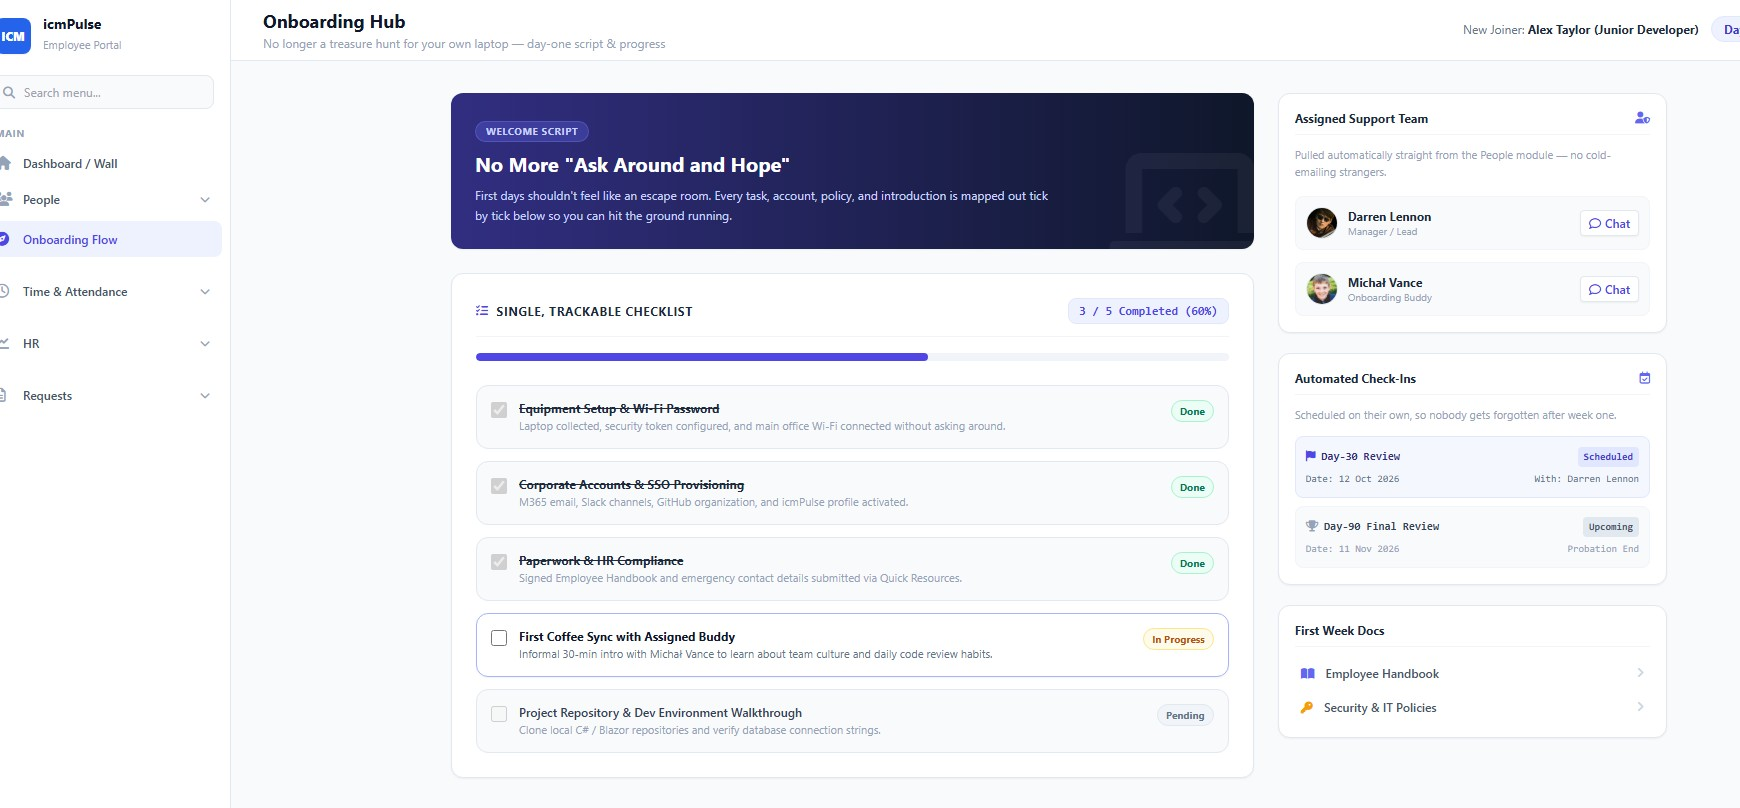
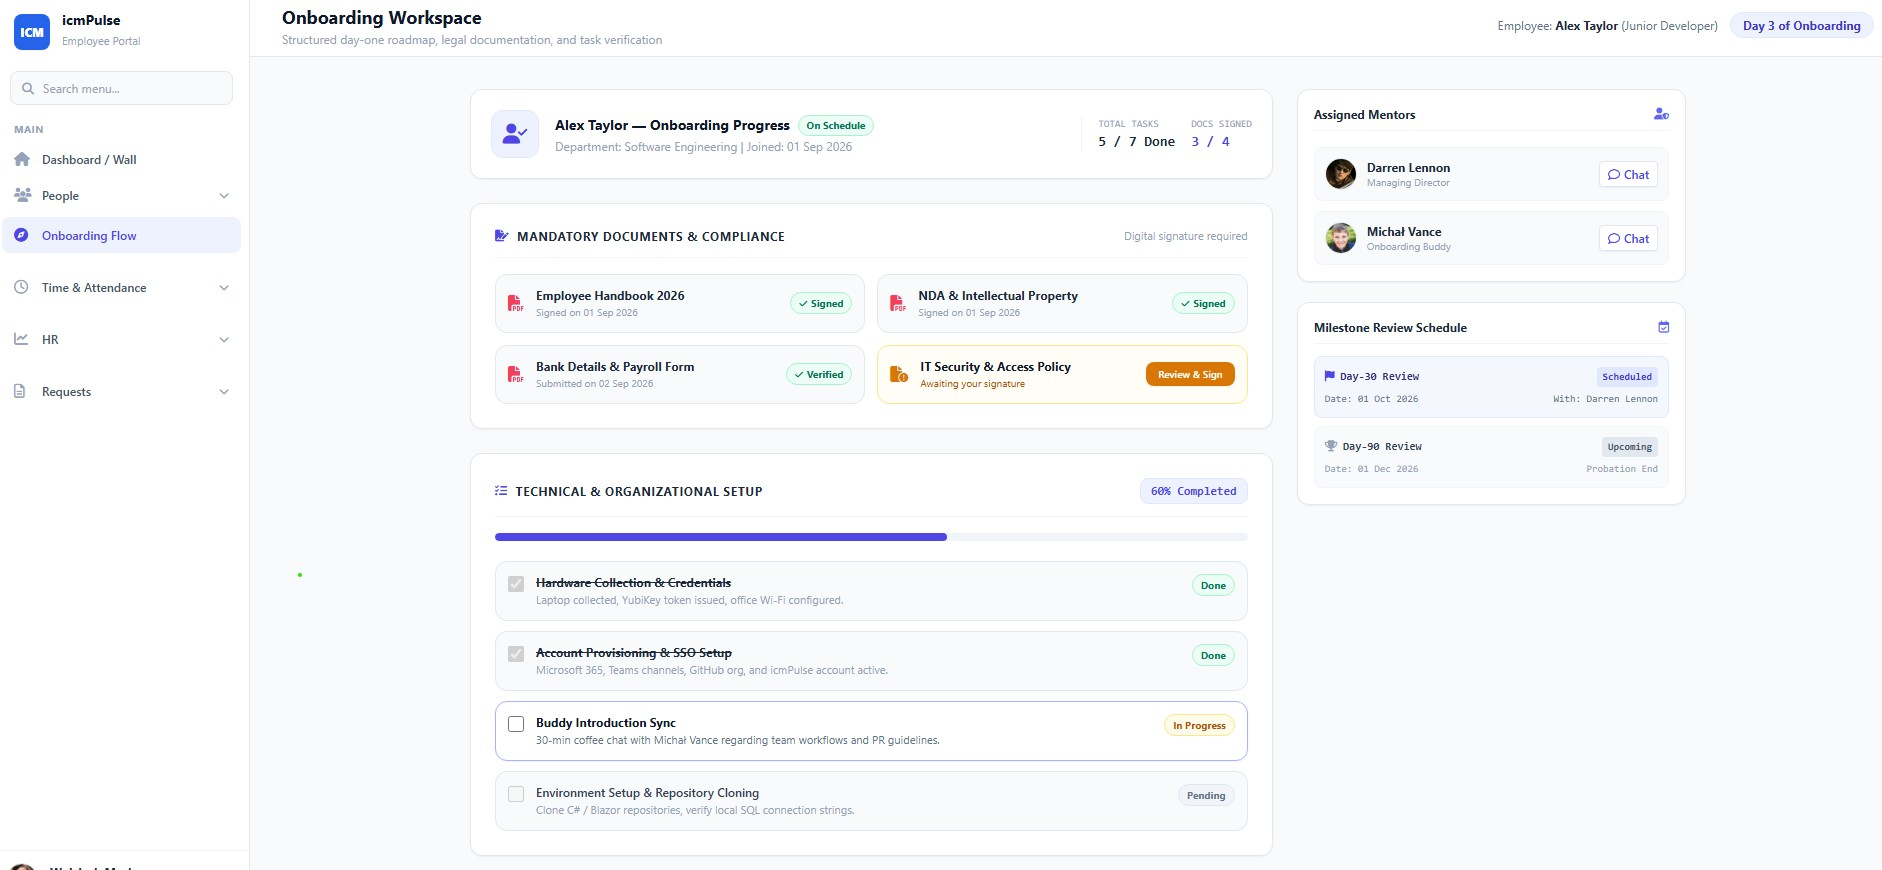
02-icm-pulse

diff --git a/02-wojciech-mruk-icmpulse.html b/02-wojciech-mruk-icmpulse.html
@@ -96,7 +96,6 @@
                     <a href="#onboarding" class="px-2.5 py-1 rounded-md bg-panel border border-hairline text-ink hover:border-violet hover:text-violet transition-colors">#Onboarding</a>
                     <a href="#expenses" class="px-2.5 py-1 rounded-md bg-panel border border-hairline text-ink hover:border-violet hover:text-violet transition-colors">#TravelExpenses</a>
                     <a href="#wall" class="px-2.5 py-1 rounded-md bg-panel border border-hairline text-ink hover:border-violet hover:text-violet transition-colors">#TheWall</a>
-                    <a href="#integrations" class="px-2.5 py-1 rounded-md bg-panel border border-hairline text-ink hover:border-violet hover:text-violet transition-colors">#TeamsAndMedia</a>
                     <a href="#ai-assistant" class="px-2.5 py-1 rounded-md bg-panel border border-hairline text-ink hover:border-violet hover:text-violet transition-colors">#PulsAI</a>
                 </div>
             </div>
@@ -106,6 +105,18 @@
                 <img src="images/wojciech-mruk-icm-ai.png" alt="Wojciech Mruk" class="rounded-2xl max-h-80 w-auto object-cover glow border border-hairline" />
             </div>
         </div>
+
+        <!-- CONCEPT & IDEA NOTE BOX -->
+        <div class="p-4 bg-yellow-200 border-2 border-yellow-400 rounded-xl space-y-2 text-xs text-yellow-950 shadow-sm my-4">
+            <div class="flex items-center gap-2 font-bold uppercase tracking-wider text-[11px] text-yellow-900">
+                <i class="fa-solid fa-lightbulb text-yellow-700 text-sm"></i>
+                <span>Internal Proposal & Concept Note</span>
+            </div>
+            <p class="leading-relaxed font-semibold">
+                The proposal below outlines an internal initiative (<strong>icmPulse</strong>) designed to streamline our daily employee workflows. It’s an idea to move away from scattered spreadsheets and unify our routine requests into one simple, modern interface.
+            </p>
+        </div>
+
     </section>
 
     <!-- MAIN ARTICLE CONTENT -->
@@ -113,6 +124,7 @@
 
         <!-- INTRO SCENARIO -->
         <article class="space-y-6">
+
             <div class="space-y-4 text-fog leading-relaxed">
                 <p class="text-lg text-ink">
                     Woken up by a rooster crowing at 7 AM, you suddenly remember you were supposed to submit a leave request today — sound familiar?
@@ -261,7 +273,7 @@
                 </details>
             </div>
         </section>
-        
+
         <!-- MODULE 03: PEOPLE -->
         <section id="people" class="space-y-6 pt-8 border-t border-hairline">
             <div class="flex items-center justify-between flex-wrap gap-2">
@@ -377,7 +389,7 @@
                 <p>icmPulse turns that pocket lint into a two-minute job: snap a photo of the receipt, pick the trip, and the system pulls the right allowance rates automatically — no more guessing whether it's €153 or €135 a night.</p>
 
                 <div class="my-6">
-                    <img src="images/02-expenses.png" alt="Travel & Expenses Claim Module" class="w-full rounded-2xl shadow-lg border border-hairline" />
+                    <img src="images/02-expenses.jpg" alt="Travel & Expenses Claim Module" class="w-full rounded-2xl shadow-lg border border-hairline" />
                 </div>
 
                 <ul class="list-disc list-inside space-y-1 font-mono text-xs text-ink bg-panel p-4 rounded-xl border border-hairline">
@@ -438,56 +450,11 @@
             </div>
         </section>
 
-        <!-- MODULE 07: INTEGRATIONS -->
-        <section id="integrations" class="space-y-6 pt-8 border-t border-hairline">
-            <div class="flex items-center justify-between flex-wrap gap-2">
-                <div class="flex items-center gap-2">
-                    <span class="font-mono text-xs text-violet font-semibold uppercase tracking-wider">Module 07</span>
-                    <span class="text-hairline">&bull;</span>
-                    <span class="font-mono text-xs text-fog">Teams & Media Integrations</span>
-                </div>
-                <!-- Jackson Link -->
-                <a href="https://en.wikipedia.org/wiki/Rock_with_You" target="_blank" rel="noopener" class="font-mono text-xs bg-panel border border-hairline hover:border-violet px-3 py-1 rounded-full text-violet transition-colors inline-flex items-center gap-1.5">
-                    <i class="fa-solid fa-compact-disc text-[10px]"></i> Rock With You (Off the Wall)
-                </a>
-            </div>
-
-            <h2 class="font-display text-2xl font-semibold text-ink">Teams & Media: One Notification Instead of Five Tabs</h2>
-
-            <div class="space-y-4 text-fog leading-relaxed">
-                <p>Before icmPulse, "staying informed" meant living across five open tabs: your inbox, Teams, the shared drive, the wiki nobody updates, and whichever spreadsheet someone linked in a message you scrolled past.</p>
-                <p>Instead of asking everyone to check one more system, Pulse comes to where people already are. A leave request gets approved in Teams. A new company announcement drops straight into the channel it belongs in. One source of truth, delivered wherever you happen to be looking.</p>
-
-                <div class="my-6">
-                    <img src="images/02-integrations.png" alt="Teams and Media Integrations Overview" class="w-full rounded-2xl shadow-lg border border-hairline" />
-                </div>
-
-                <ul class="list-disc list-inside space-y-1 font-mono text-xs text-ink bg-panel p-4 rounded-xl border border-hairline">
-                    <li>Microsoft Teams notifications for approvals, reminders, and Wall posts — no separate app to check.</li>
-                    <li>A synced media library so photos from the last team event don't quietly die in someone's phone.</li>
-                    <li>Single sign-on: one login for Pulse, Teams, and everything connected to it.</li>
-                </ul>
-
-                <!-- NATYWNIE UKRYTE SZCZEGÓŁY HTML5 -->
-                <details class="bg-panel rounded-xl p-4 border border-hairline text-xs cursor-pointer group">
-                    <summary class="font-mono font-semibold text-violet flex items-center justify-between select-none">
-                        <span><i class="fa-solid fa-compact-disc mr-2"></i> Track & Album Reference (Click to Expand)</span>
-                        <i class="fa-solid fa-chevron-down group-open:rotate-180 transition-transform"></i>
-                    </summary>
-                    <div class="mt-3 pt-3 border-t border-hairline text-fog space-y-1 font-mono">
-                        <p><strong class="text-ink">Song Title:</strong> "Rock with You"</p>
-                        <p><strong class="text-ink">Album:</strong> Off the Wall (1979)</p>
-                        <p><strong class="text-ink">Why this track?</strong> Pulse doesn't fight the tools you already use — it rocks with them.</p>
-                    </div>
-                </details>
-            </div>
-        </section>
-
-        <!-- MODULE 08: AI CHAT ASSISTANT -->
+        <!-- MODULE 07: AI CHAT ASSISTANT -->
         <section id="ai-assistant" class="space-y-6 pt-8 border-t border-hairline">
             <div class="flex items-center justify-between flex-wrap gap-2">
                 <div class="flex items-center gap-2">
-                    <span class="font-mono text-xs text-violet font-semibold uppercase tracking-wider">Module 08</span>
+                    <span class="font-mono text-xs text-violet font-semibold uppercase tracking-wider">Module 07</span>
                     <span class="text-hairline">&bull;</span>
                     <span class="font-mono text-xs text-fog">AI Knowledge Assistant</span>
                 </div>
@@ -679,6 +646,32 @@
                     It's time to establish a great communication highway, move away from fragmented Excel forms, and step up to a level where we say: <em>"We have it, we love it, and it's ours."</em>
                 </p>
                 <span class="block mt-6 font-mono text-xs text-violet font-semibold uppercase tracking-wider">I'm eager to hear your thoughts, ideas, and suggestions!</span>
+            </div>
+        </section>
+
+        <!-- VIDEO PLAYER SECTION -->
+        <section class="my-10 p-6 bg-panel border border-hairline rounded-2xl glow space-y-4">
+            <div class="flex items-center justify-between flex-wrap gap-2">
+                <div class="flex items-center gap-3">
+                    <div class="w-10 h-10 rounded-full bg-violet/10 border border-violet/30 flex items-center justify-center text-violet">
+                        <i class="fa-solid fa-circle-play text-base"></i>
+                    </div>
+                    <div>
+                        <h3 class="font-display text-sm font-semibold text-ink">Project Demo / Showcase Video</h3>
+                        <p class="text-xs text-fog font-mono">Chapter 2 — icmPulse Interactive Walkthrough</p>
+                    </div>
+                </div>
+                <span class="font-mono text-[10px] bg-paper border border-hairline px-2.5 py-1 rounded-full text-violet font-semibold">
+                    MP4 VIDEO
+                </span>
+            </div>
+
+            <!-- NATYWNY PLAYER VIDEO HTML5 -->
+            <div class="relative rounded-xl overflow-hidden border border-hairline bg-ink shadow-lg">
+                <video controls poster="images/02-new-icm.jpg" class="w-full h-auto aspect-video object-cover">
+                    <source src="video/02-icmpulse-introduction.mp4" type="video/mp4">
+                    Twoja przeglądarka nie obsługuje elementu video.
+                </video>
             </div>
         </section>
     </main>
